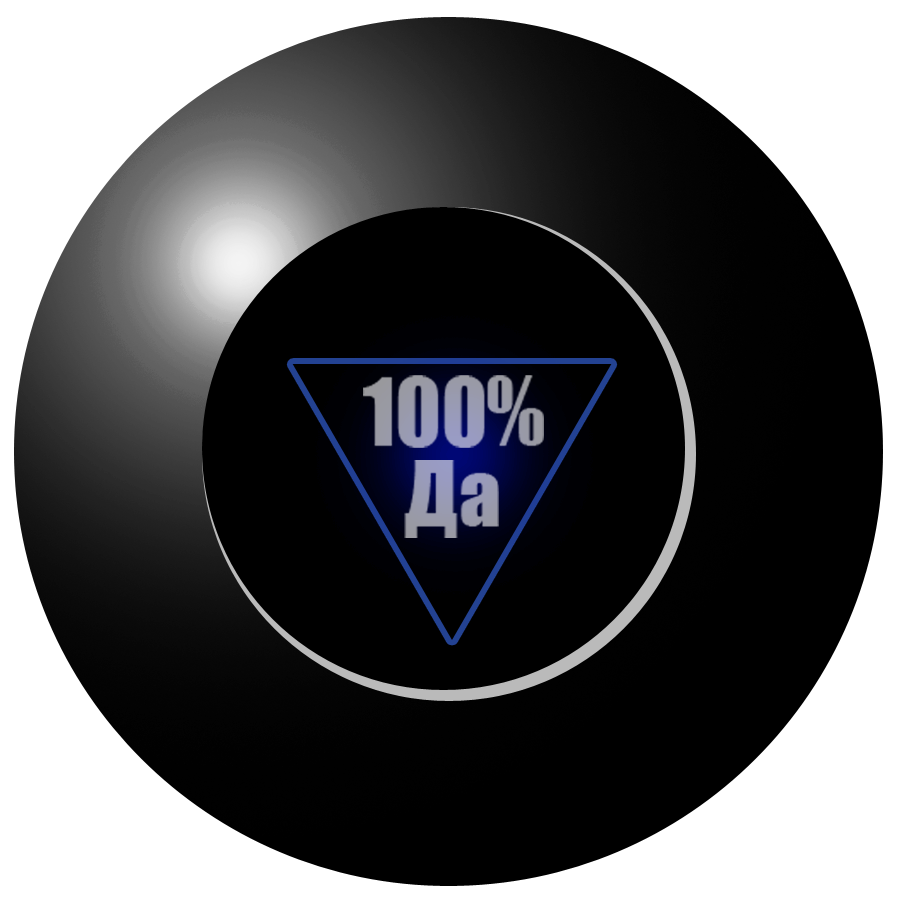
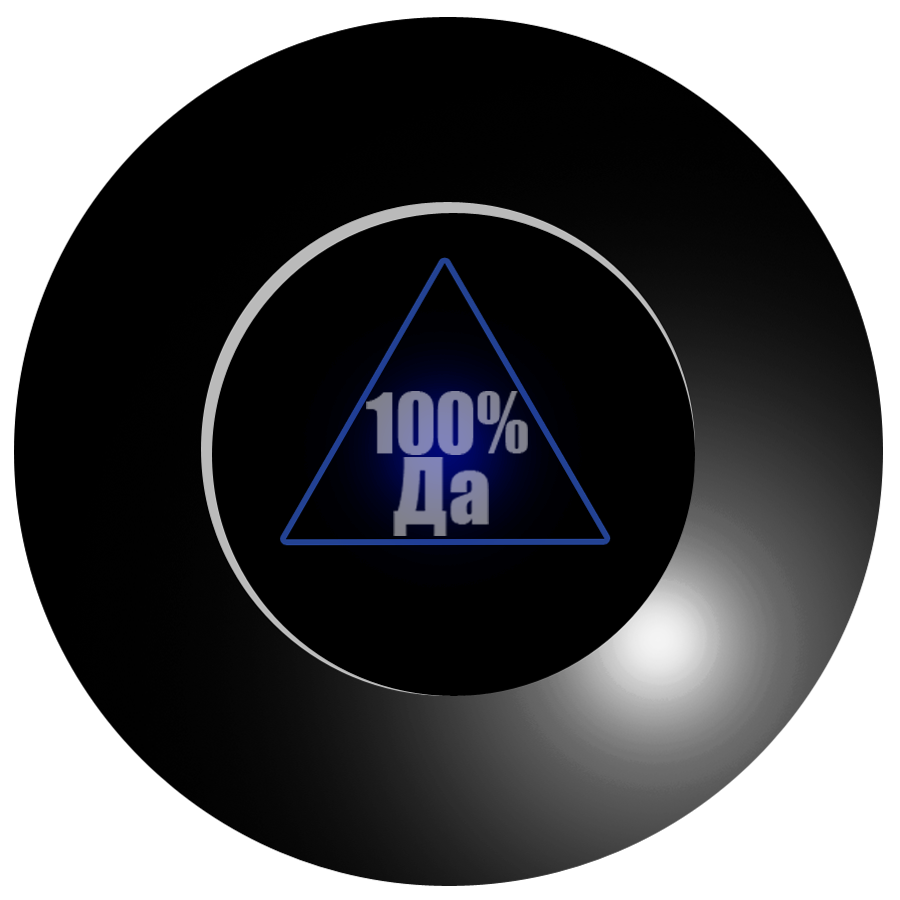
add new images

diff --git a/lib/main.dart b/lib/main.dart
@@ -13,7 +13,7 @@ class MyApp extends StatelessWidget {
   @override
   Widget build(BuildContext context) {
     return MaterialApp(
-      title: 'Flutter Demo',
+      title: 'Магический шар',
       theme: ThemeData.dark(),
       home: const MyHomePage(),
     );
@@ -28,22 +28,23 @@ class MyHomePage extends StatefulWidget {
 }
 
 class _MyHomePageState extends State<MyHomePage> {
-  int value = 1;
+  int value = 0;
   @override
   Widget build(BuildContext context) {
     return Scaffold(
         backgroundColor: Colors.black38,
         appBar: AppBar(
-          title: Text("Магический шар"),
+          centerTitle: true,
+          title: const Text("Магический шар"),
         ),
         body: FlatButton(
           onPressed: () {
             setState(() {
-              value = Random().nextInt(3) + 1;
+              value = Random().nextInt(7) + 1;
             });
           },
           child: Center(
-            child: Container(
+            child: SizedBox(
                 height: double.infinity,
                 child: Image.asset("images/images$value.png")),
           ),
